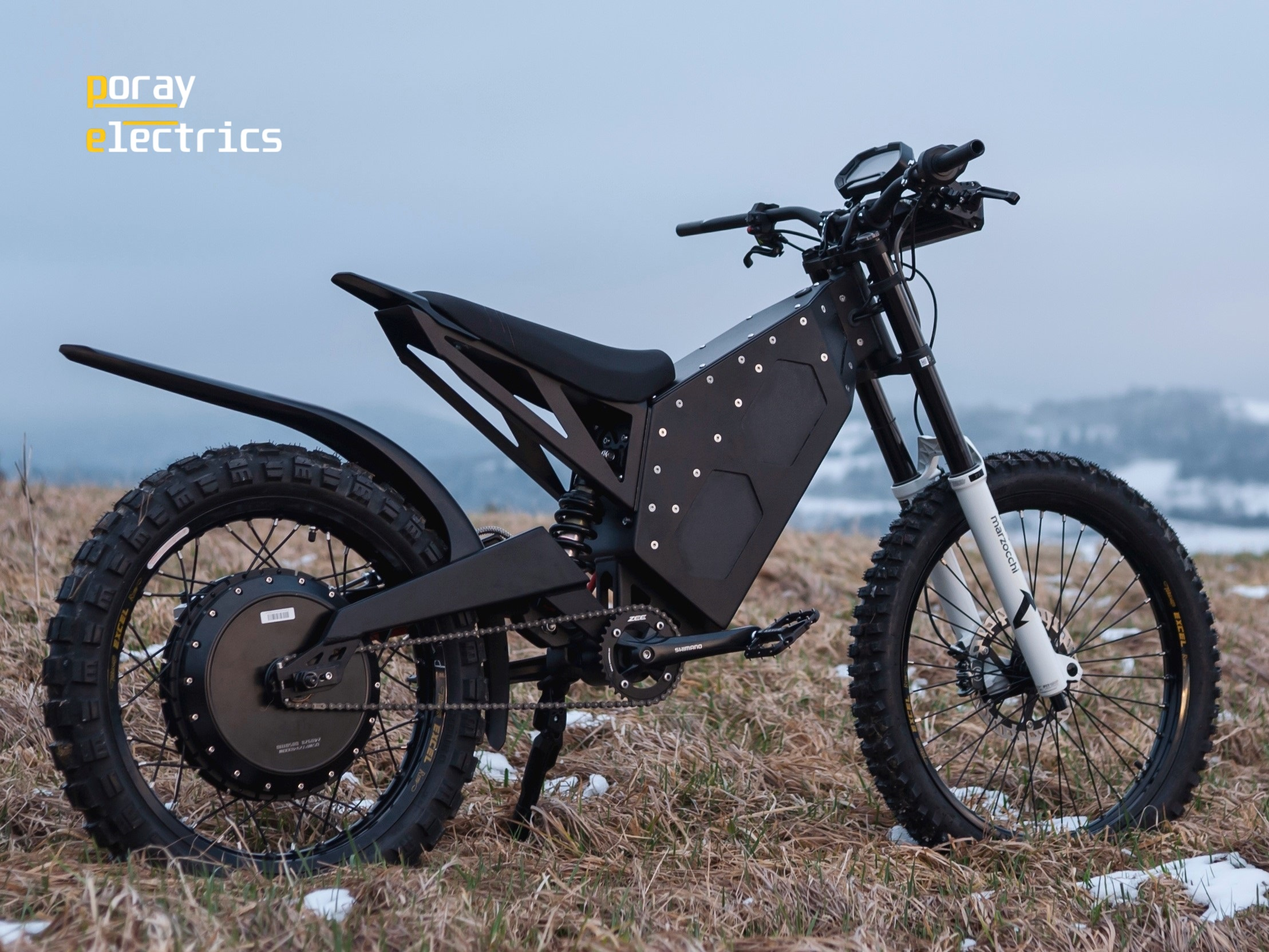
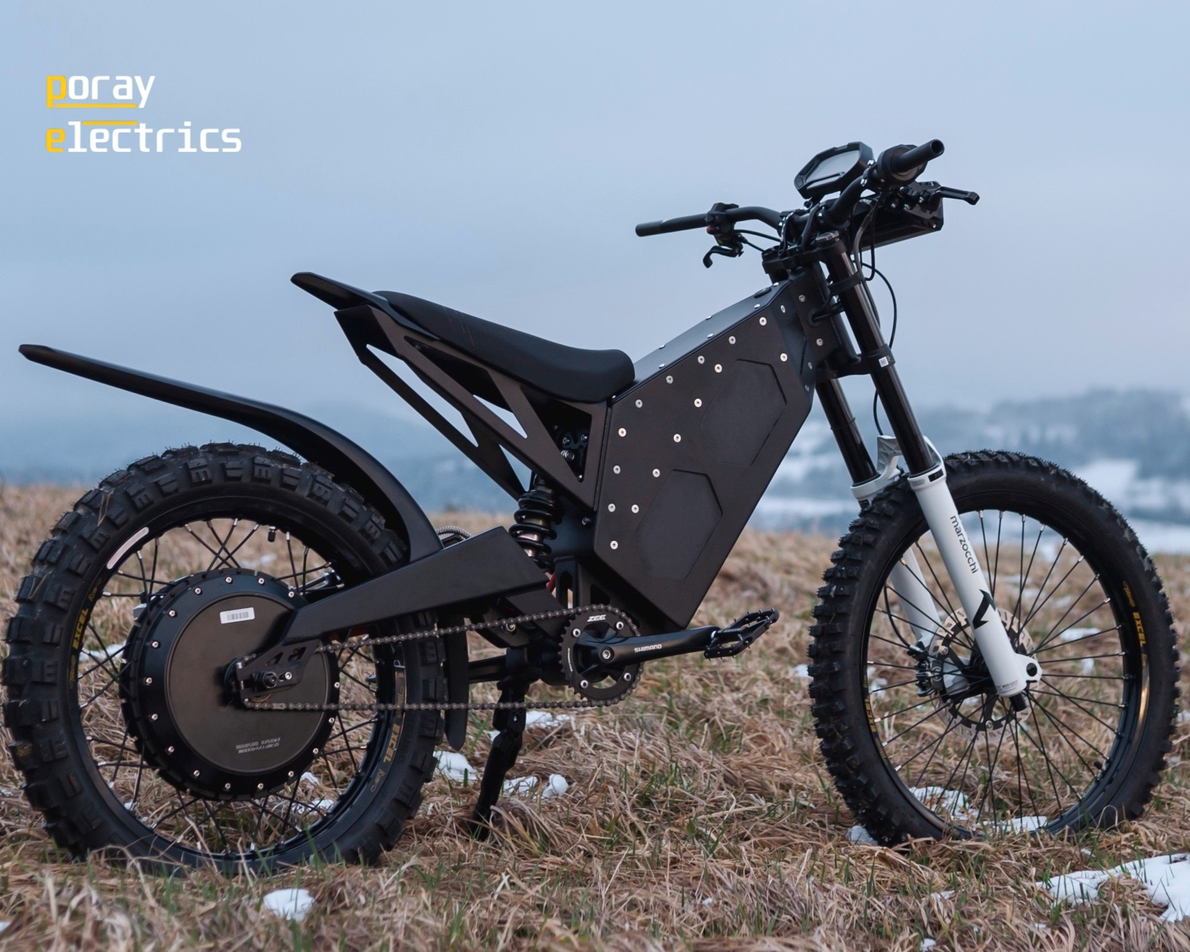
sync local changes

diff --git a/index.html b/index.html
@@ -317,7 +317,7 @@
     </div>
 
     <div class="fenix-photo reveal fenix-extra">
-      <img src="img/i2.webp" alt="Poray Electrics Voyager – zdjęcie 3" loading="lazy" />
+      <img src="img/i2.jpg" alt="Poray Electrics Voyager – zdjęcie 3" loading="lazy" />
     </div>
   </div>
 
